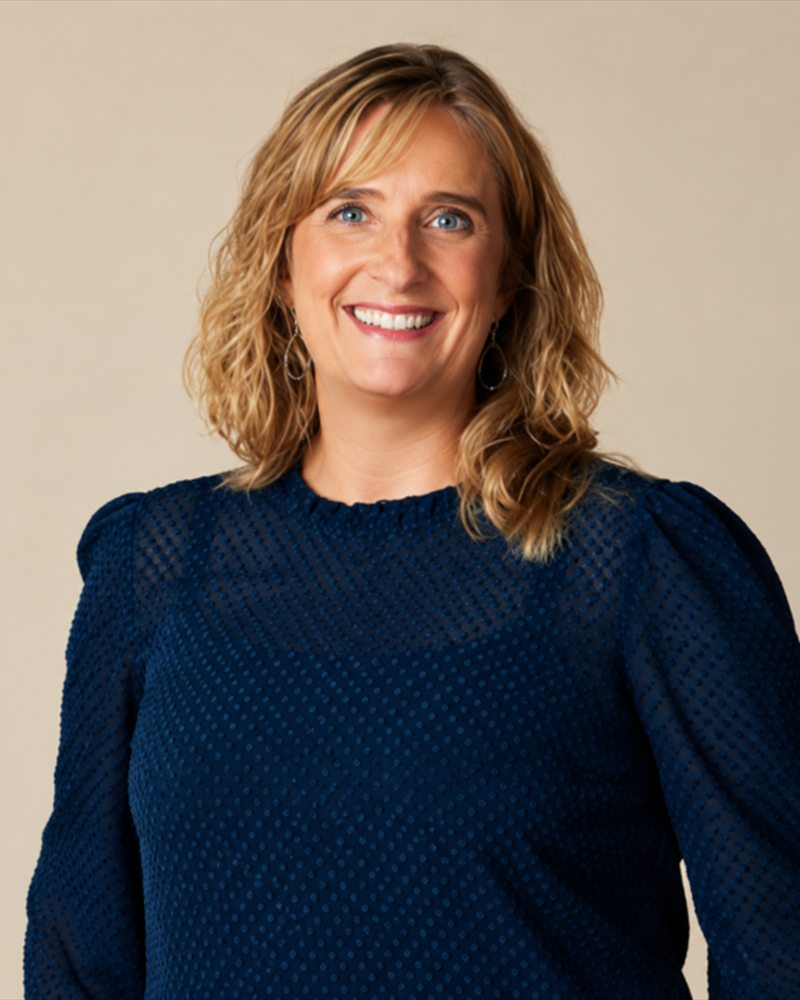
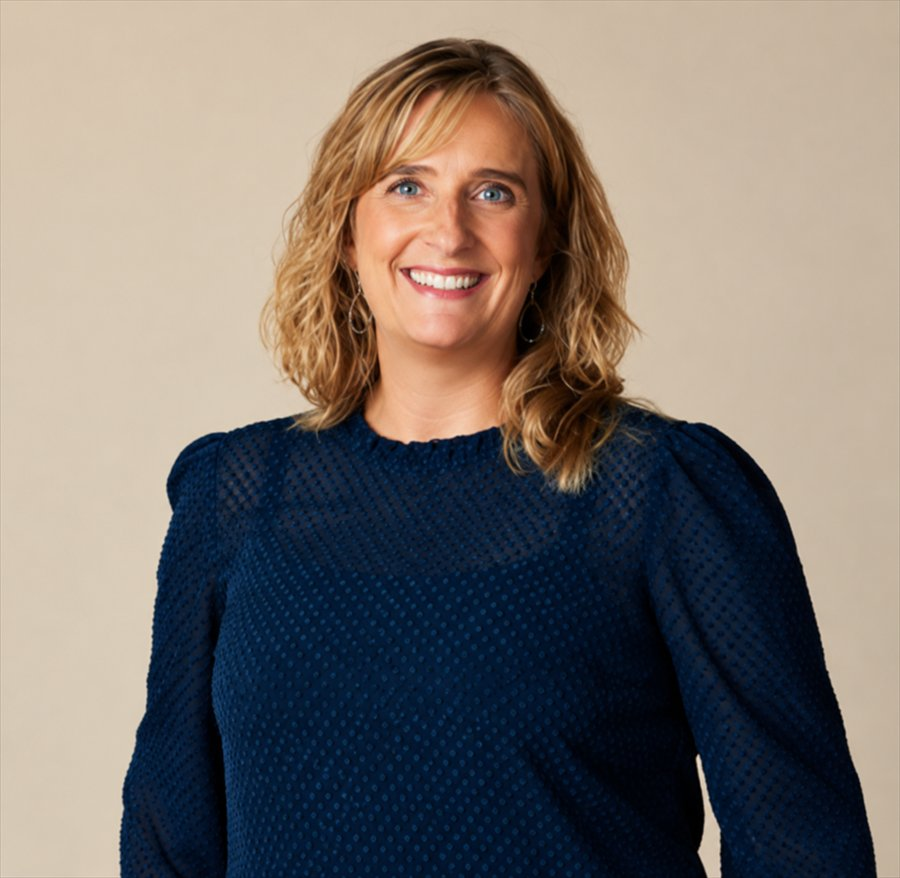
La portrettet beholde sitt eget format
Jeg tvang et nesten kvadratisk bilde (1270 x 1239) inn i en 4:5-ramme og
kuttet 140 px på hver side. Rammen var laget for TØ-plassholderen, ikke
for et bilde, og resultatet ble smalt og beskåret.

.om__foto har ikke lenger aspect-ratio eller object-fit. Bildet er hele
originalen, bare skalert til 900 x 878, og fyller bredden med height:auto.
Da kan et nytt portrett byttes inn senere uten å bli strukket eller kuttet.

Bildekolonnen utvidet fra 0.72fr til 0.88fr - et kvadratisk bilde ble for
lavt i den smale spalten som var dimensjonert for et stående format.

De døde .om__plassholder-reglene er samtidig fjernet.

diff --git a/css/style.css b/css/style.css
@@ -618,31 +618,19 @@ ul { list-style: none; }
 
 .om {
   display: grid;
-  grid-template-columns: 0.72fr 1.28fr;
+  grid-template-columns: 0.88fr 1.12fr;
   gap: clamp(26px, 4vw, 56px);
   align-items: start;
 }
 
 .om__figur { margin: 0; }
-.om__foto,
-.om__plassholder {
-  width: 100%;
-  aspect-ratio: 4 / 5;
-  border-radius: 3px;
-}
-.om__foto { object-fit: cover; }
 
-/* Midlertidig monogram til portrettet foreligger */
-.om__plassholder {
-  background: var(--bg-alt);
-  border: 1px solid var(--rule);
-  display: grid;
-  place-items: center;
-}
-.om__plassholder span {
-  font-family: var(--font-head);
-  font-size: clamp(2.2rem, 5vw, 3.2rem);
-  color: var(--green);
+/* Ingen fast aspect-ratio her. Bildet beholder sitt eget format, saa et
+   nytt portrett kan byttes inn uten aa bli beskaaret eller strukket. */
+.om__foto {
+  width: 100%;
+  height: auto;
+  border-radius: 3px;
 }
 
 .om__tekst p + p { margin-top: 15px; }

diff --git a/index.html b/index.html
@@ -558,7 +558,7 @@
       <div class="doc__body">
         <div class="om">
           <figure class="om__figur reveal">
-            <img class="om__foto" src="bilder/trude.jpg" width="800" height="1000"
+            <img class="om__foto" src="bilder/trude.jpg" width="900" height="878"
                  alt="Trude Øiesvold, KontorKlar" loading="lazy">
           </figure>
 

diff --git a/README.md b/README.md
@@ -115,12 +115,13 @@ delt i tre bruksklare varianter med gjennomsiktig bakgrunn:
 | `bilder/logo-lys.png` | Footeren, som står på merkenavy. Alt blekk gjort hvitt |
 | `bilder/logo-merke.png` | Merket alene, kvadratisk. Brukt på `takk.html` |
 | `bilder/og-image.png` | Deling på Facebook og LinkedIn, 1200 × 630 |
-| `bilder/trude.jpg` | Portrettet i seksjon 06, 800 × 1000 |
+| `bilder/trude.jpg` | Portrettet i seksjon 06, 900 × 878 |
 | `favicon.png` | Fanikon, 180 × 180 |
 
-Portrettet er beskåret til 4:5 fra en nesten kvadratisk original
-(1270 × 1239) ved å ta bort 140 px i hver side. Det er **JPEG, ikke WebP** –
-det finnes ingen WebP-koder på maskinen.
+Portrettet er hele originalen, bare skalert ned – ikke beskåret. `.om__foto`
+har derfor **ingen `aspect-ratio`**; bildet beholder sitt eget format, så et
+nytt portrett kan byttes inn uten å bli strukket eller kuttet. Det er **JPEG,
+ikke WebP** – det finnes ingen WebP-koder på maskinen.
 
 Skal de lages på nytt – for eksempel hvis kunden sender en ny logofil – kjør
 `verktoy/lag-logo.ps1` fra PowerShell. Skriptet klipper ut merket og ordmerket,
